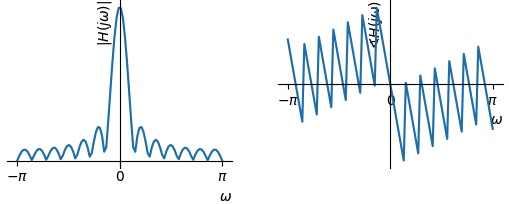
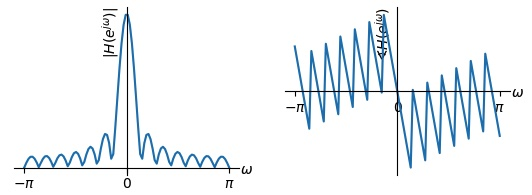
bugfixes

diff --git a/lec04/freqresp.py b/lec04/freqresp.py
@@ -15,7 +15,7 @@ ax.spines.right.set_color('none')
 ax.spines.bottom.set_position('zero')
 ax.spines.top.set_color('none')
 ax.set_xlabel(r'$\omega$', loc='right')
-ax.set_ylabel(r'$|H(j\omega)|$', loc='top')
+ax.set_ylabel(r'$|H(e^{j\omega})|$', loc='top')
 ax.set_xticks([-np.pi, 0, np.pi])
 ax.set_xticklabels([r'$-\pi$', '0', r'$\pi$'])
 ax.set_yticks([])
@@ -30,7 +30,7 @@ ax.spines.right.set_color('none')
 ax.spines.bottom.set_position('zero')
 ax.spines.top.set_color('none')
 ax.set_xlabel(r'$\omega$', loc='right')
-ax.set_ylabel(r'$\sphericalangle H(j\omega)$', loc='top')
+ax.set_ylabel(r'$\sphericalangle H(e^{j\omega})$', loc='top')
 ax.set_xticks([-np.pi, 0, np.pi])
 ax.set_xticklabels([r'$-\pi$', '0', r'$\pi$'])
 ax.set_yticks([])
@@ -38,7 +38,7 @@ ax.xaxis.set_ticks_position('bottom')
 ax.yaxis.set_ticks_position('left')
 ax.xaxis.set_label_coords(1.06, 0.53)
 
-M = 5
+M = 14
 y=[np.sum([np.exp(-1j*k*_) for k in range(M)]) for _ in t]
 
 ax = fig.add_subplot(2, 2, 3)
@@ -48,7 +48,7 @@ ax.spines.right.set_color('none')
 ax.spines.bottom.set_position('zero')
 ax.spines.top.set_color('none')
 ax.set_xlabel(r'$\omega$', loc='right')
-ax.set_ylabel(r'$|H(j\omega)|$', loc='top')
+ax.set_ylabel(r'$|H(e^{j\omega})|$', loc='top')
 ax.set_xticks([-np.pi, 0, np.pi])
 ax.set_xticklabels([r'$-\pi$', '0', r'$\pi$'])
 ax.set_yticks([])
@@ -63,7 +63,7 @@ ax.spines.right.set_color('none')
 ax.spines.bottom.set_position('zero')
 ax.spines.top.set_color('none')
 ax.set_xlabel(r'$\omega$', loc='right')
-ax.set_ylabel(r'$\sphericalangle H(j\omega)$', loc='top')
+ax.set_ylabel(r'$\sphericalangle H(e^{j\omega})$', loc='top')
 ax.set_xticks([-np.pi, 0, np.pi])
 ax.set_xticklabels([r'$-\pi$', '0', r'$\pi$'])
 ax.set_yticks([])
